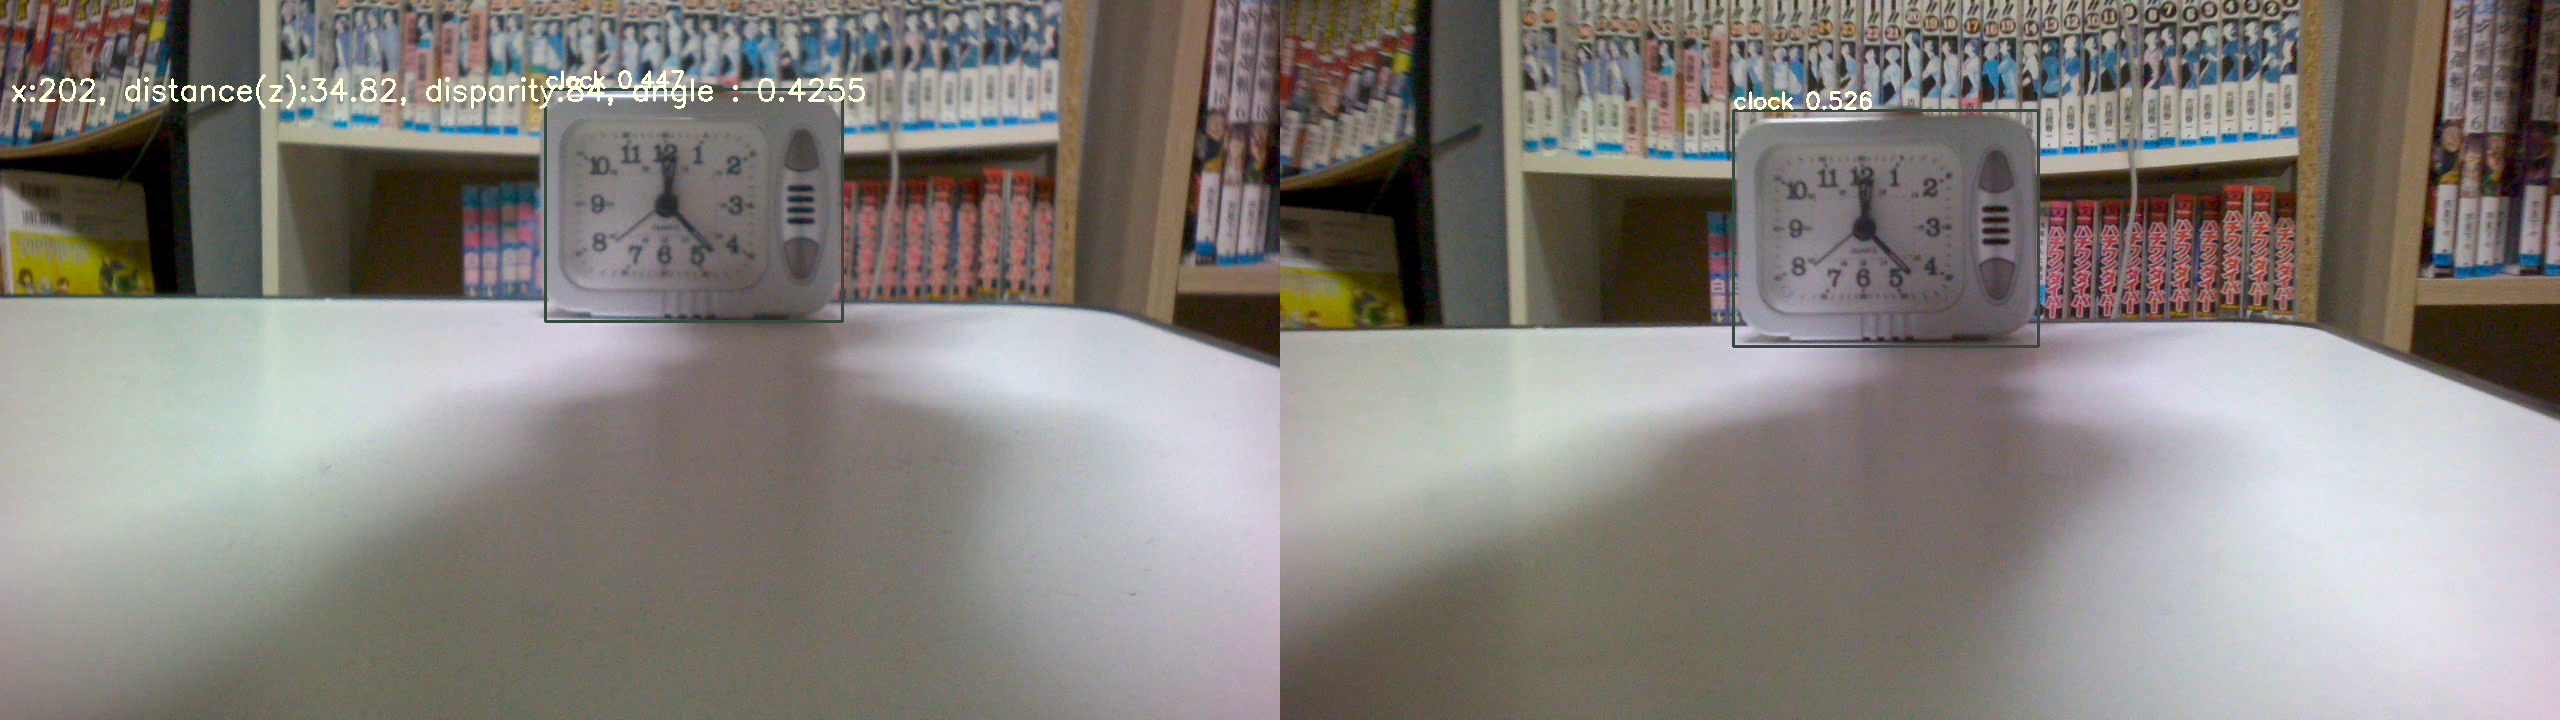
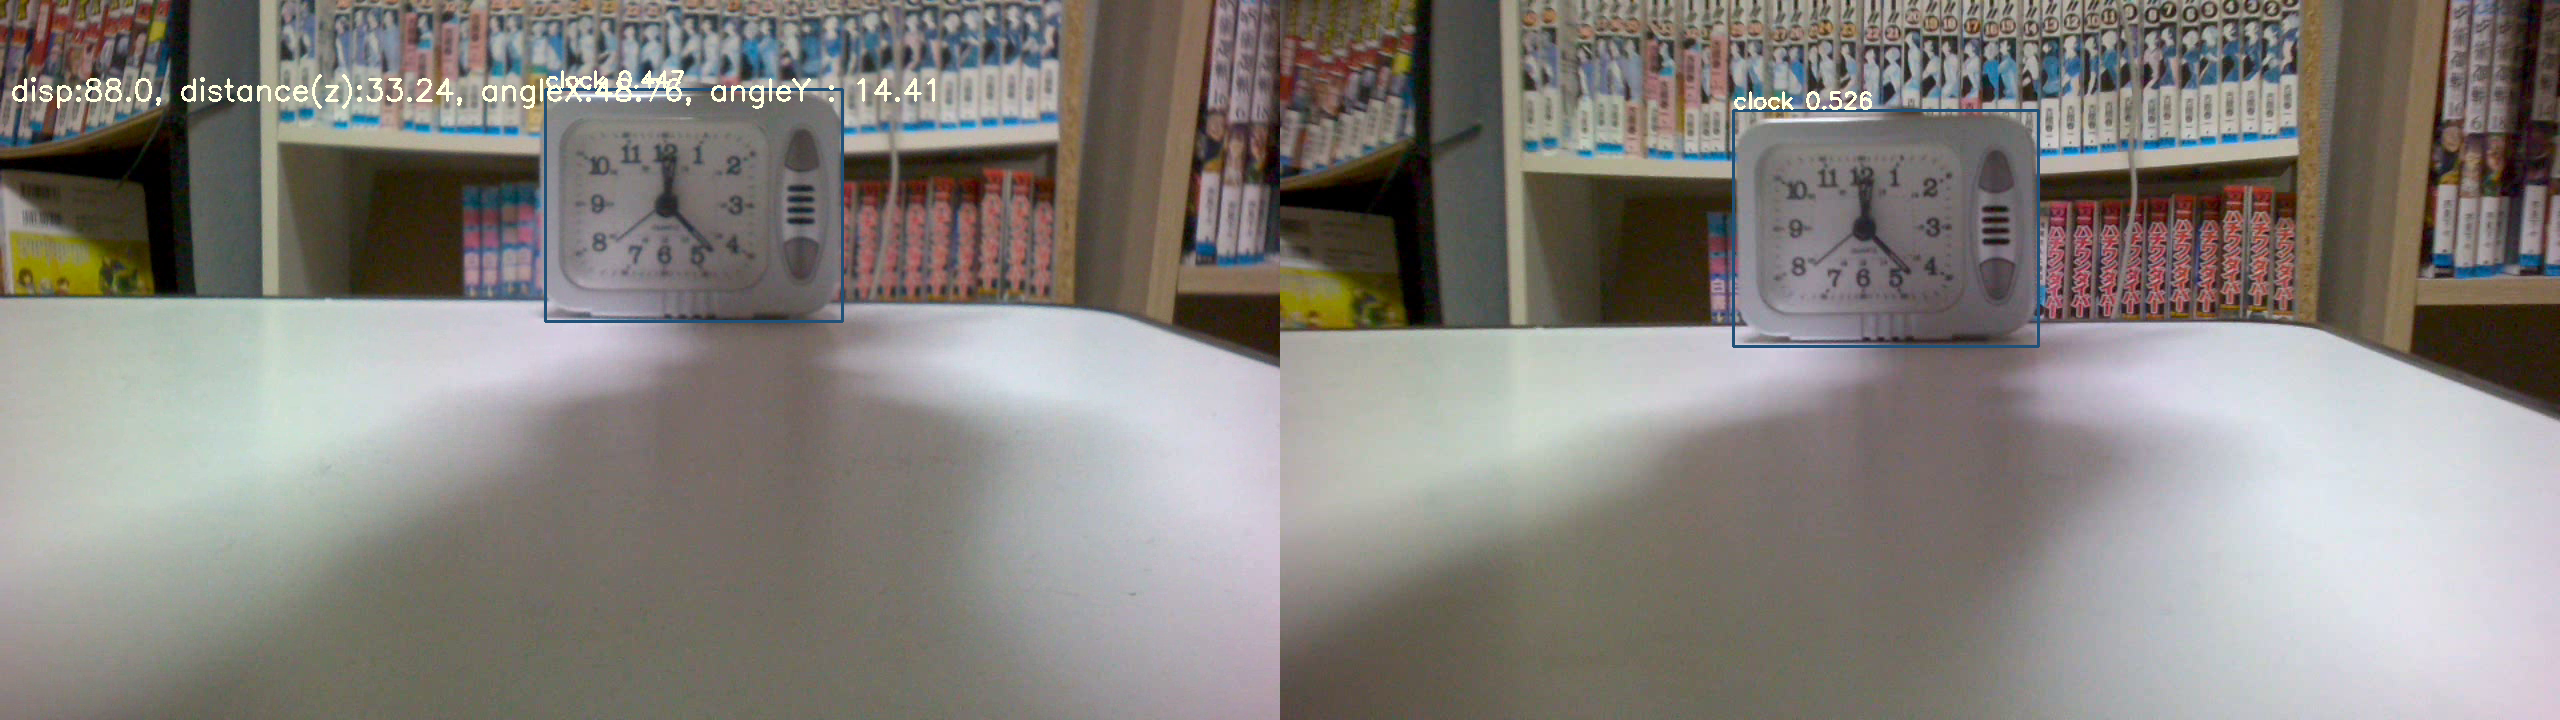
prototype update

Changed region(s): [[0.0, 0.0917, 0.375, 0.1528], [0.6875, 0.4583, 0.7812, 0.4889], [0.2188, 0.4278, 0.3125, 0.4583]]

diff --git a/qtWidgets/LeftWidget.py b/qtWidgets/LeftWidget.py
@@ -1,5 +1,4 @@
 import numpy as np
-
 from PySide6.QtWidgets import QWidget, QHBoxLayout, QVBoxLayout, QLabel, QSpacerItem, QSizePolicy
 from PySide6.QtCore import QTimer
 
@@ -12,16 +11,15 @@ class LeftWidget(QWidget):
         self.th = th
         self.setUI()
         self.UpDate()
-        
-    def setUI(self):
-    
-        # x0 params
-        self.x0_layout = QHBoxLayout()
-        self.x0_title = QLabel('X0')
-        self.x0 = QLabel('', self)
-        self.x0.setStyleSheet('font-family: Times New Roman; font-size: 15px; color: black; background-color: azure')
-        self.x0_layout.addWidget(self.x0_title)
-        self.x0_layout.addWidget(self.x0)
+       
+    def setLayouts(self):
+        # disparity params
+        self.disp_layout = QHBoxLayout()
+        self.disp_title = QLabel('Disparity')
+        self.disp = QLabel('', self)
+        self.disp.setStyleSheet('font-family: Times New Roman; font-size: 15px; color: black; background-color: azure')
+        self.disp_layout.addWidget(self.disp_title)
+        self.disp_layout.addWidget(self.disp)
         
         # distance params
         self.distance_layout = QHBoxLayout()
@@ -31,17 +29,30 @@ class LeftWidget(QWidget):
         self.distance_layout.addWidget(self.distance_title)
         self.distance_layout.addWidget(self.distance)
         
-        # angle params
-        self.angle_layout = QHBoxLayout()
-        self.angle_title = QLabel('Angle')
-        self.angle = QLabel('', self)
-        self.angle.setStyleSheet('font-family: Times New Roman; font-size: 15px; color: black; background-color: azure')
-        self.angle_layout.addWidget(self.angle_title)
-        self.angle_layout.addWidget(self.angle)
+        # angle X params
+        self.angleX_layout = QHBoxLayout()
+        self.angleX_title = QLabel('Angle X')
+        self.angleX = QLabel('', self)
+        self.angleX.setStyleSheet('font-family: Times New Roman; font-size: 15px; color: black; background-color: azure')
+        self.angleX_layout.addWidget(self.angleX_title)
+        self.angleX_layout.addWidget(self.angleX)
         
-        self.layout.addLayout(self.x0_layout)
+        # angle Y params
+        self.angleY_layout = QHBoxLayout()
+        self.angleY_title = QLabel('Angle X')
+        self.angleY = QLabel('', self)
+        self.angleY.setStyleSheet('font-family: Times New Roman; font-size: 15px; color: black; background-color: azure')
+        self.angleY_layout.addWidget(self.angleY_title)
+        self.angleY_layout.addWidget(self.angleY)
+        
+    def setUI(self):
+        # set each layouts
+        self.setLayouts()
+        
+        self.layout.addLayout(self.disp_layout)
         self.layout.addLayout(self.distance_layout)
-        self.layout.addLayout(self.angle_layout)
+        self.layout.addLayout(self.angleX_layout)
+        self.layout.addLayout(self.angleY_layout)
         # スペーシング
         spc = QSpacerItem(100, 100, QSizePolicy.Expanding, QSizePolicy.Expanding)
         self.layout.addSpacerItem(spc)
@@ -57,6 +68,7 @@ class LeftWidget(QWidget):
         self.timer.start(30)
         
     def plot_bar(self):
-        self.x0.setText(str(self.th.x0))
+        self.disp.setText(str(self.th.disparity))
         self.distance.setText(str(self.th.distance))
-        self.angle.setText(str(self.th.angle))
+        self.angleX.setText(str(self.th.angleX))
+        self.angleY.setText(str(self.th.angleY))

diff --git a/yolov7s/movie_inference.py b/yolov7s/movie_inference.py
@@ -14,7 +14,7 @@ def get_parser():
     parser.add_argument('--per_frames', type=int, default=5, help='num frames to predict at each thread for reducing device burden')
     parser.add_argument('--conf-thres', type=float, default=0.25, help='conf threshold for NMS or postprocess')
     parser.add_argument('--max_disparity', type=int, default=240, help='max disparity')
-    parser.add_argument('--min_disparity', type=int, default=15, help='min disparity')
+    parser.add_argument('--min_disparity', type=int, default=15, help='max disparity')
     parser.add_argument('--rvid_path', type=str, default='data/right.mp4', help='right video path')
     parser.add_argument('--lvid_path', type=str, default='data/left.mp4', help='left video path')
     opt = parser.parse_args()
@@ -30,8 +30,8 @@ def inference_(frame, session, new_shape, conf_thres):
     resized_image, ratio, dwdh = letterbox(frame, new_shape=new_shape, auto=False)
     input_tensor = preprocess(resized_image)
     outputs = onnx_inference(session, input_tensor)
-    pred_output, box_x = post_process(outputs, ori_images, ratio, dwdh, conf_thres)
-    return pred_output, box_x
+    pred_output, coordinate_x, coordinate_y = post_process(outputs, ori_images, ratio, dwdh, conf_thres)
+    return pred_output, coordinate_x, coordinate_y
     
 
 def video_inference(opt):
@@ -54,7 +54,7 @@ def video_inference(opt):
     Rstack = []
     Lstack = []
     cv2.namedWindow("Detected Objects", cv2.WINDOW_NORMAL)
-    #c = 1
+    c = 1
     while capR.isOpened() and capL.isOpened():
         try:
             retR, frame_right = capR.read()
@@ -68,21 +68,21 @@ def video_inference(opt):
             continue
         if len(Rstack)==per_frames and len(Lstack)==per_frames:
             # inference each frame
-            right_output, RboxW = inference_(Rstack[-1], session, new_shape, conf_thres)
-            left_output, LboxW = inference_(Lstack[-1], session, new_shape, conf_thres)
+            right_output, Rx, Ry = inference_(Rstack[-1], session, new_shape, conf_thres)
+            left_output, Lx, Ly = inference_(Lstack[-1], session, new_shape, conf_thres)
             frames = np.concatenate((right_output[0], left_output[0]), axis=1)
             Rstack=[]
             Lstack=[]
-            if RboxW >0 and LboxW > 0:
-                disparity = abs(RboxW-LboxW)
+            if Rx >0 and Lx > 0:
+                disparity = abs(Rx-Lx)
                 if disparity <= max_disparity and disparity > min_disparity:
                     h, w = frames.shape[:2]
-                    distance= prams_calcurator(disparity)
-                    texts = 'distance(z):{}, disparity:{}'.format(distance, disparity)
+                    distance, angleX, angleY = prams_calcurator(disparity, width=w, x=Rx, y=Ry)
+                    texts = 'disp:{}, distance(z):{}, angleX:{}, angleY : {}'.format(disparity, distance, angleX, angleY)
                     cv2.putText(frames, texts, (10, 100), cv2.FONT_HERSHEY_SIMPLEX, 1, [225, 255, 255],thickness=2)
             cv2.imshow("Detected Objects", frames)
-            #cv2.imwrite('results/frame_{}.png'.format(c), frames)
-            #c +=1
+            cv2.imwrite('results/frame_{}.png'.format(c), frames)
+            c +=1
         if cv2.waitKey(30) == 27:
             break
     capR.release()

diff --git a/qtWidgets/RightVideoTread.py b/qtWidgets/RightVideoTread.py
@@ -18,9 +18,10 @@ class Thread(QThread):
         self.capR = cv2.VideoCapture(opt.rvid_path)
         self.capL = cv2.VideoCapture(opt.lvid_path)
         self.pred_time = 0
+        self.disparity = 0
         self.distance = 0
-        self.x0 = 0
-        self.angle = 0
+        self.angleX = 0
+        self.angleY = 0
         self.vid_side = opt.vid_size
         self.conf_thres = opt.conf_thres
         self.per_frames = opt.per_frames
@@ -56,8 +57,8 @@ class Thread(QThread):
         resized_image, ratio, dwdh = letterbox(frame, new_shape=self.new_shape, auto=False)
         input_tensor = preprocess(resized_image)
         outputs = onnx_inference(self.session, input_tensor)
-        pred_output, box_x = post_process(outputs, ori_images, ratio, dwdh, self.conf_thres)
-        return pred_output[0], box_x
+        pred_output, coordinate_x, coordinate_y = post_process(outputs, ori_images, ratio, dwdh, self.conf_thres)
+        return pred_output[0], coordinate_x, coordinate_y
         
     def run(self):
         """Read frame from camera and repaint QLabel widget.
@@ -76,16 +77,16 @@ class Thread(QThread):
                 continue
             if len(self.Rstack)==self.per_frames and len(self.Lstack)==self.per_frames:
                 start = time.time()
-                frameR_, RboxW = self.qt_onnx_inference(self.Rstack[-1])
-                frameL_, LboxW = self.qt_onnx_inference(self.Lstack[-1])
+                frameR_, Rx, Ry = self.qt_onnx_inference(self.Rstack[-1])
+                frameL_, Lx, Ly = self.qt_onnx_inference(self.Lstack[-1])
                 frames = np.concatenate((frameR_, frameL_), axis=1)
                 #frames_ = cv2.resize(frames, dim)
-                if RboxW >0 and LboxW > 0:
-                    disparity = abs(RboxW-LboxW)
-                    if disparity <= self.max_disparity and disparity > self.min_disparity:
+                if Rx >0 and Lx > 0:
+                    self.disparity = abs(Rx-Lx)
+                    if self.disparity <= self.max_disparity and self.disparity > self.min_disparity:
                         h, w = frames.shape[:2]
-                        self.x0, self.distance, self.angle, deg = prams_calcurator(disparity, x_pos=RboxW, width=w)
-                        texts = 'x:{}, distance(z):{}, disparity:{}, angle : {}, deg:{}'.format(self.x0, self.distance, disparity, self.angle, deg)
+                        self.distance, self.angleX, self.angleY = prams_calcurator(self.disparity, width=w, x=Rx, y=Ry)
+                        texts = 'disp:{}, distance(z):{}, angleX:{}, angleY : {}'.format(self.disparity, self.distance, self.angleX, self.angleY)
                         cv2.putText(frames, texts, (10, 100), cv2.FONT_HERSHEY_SIMPLEX, 1, [225, 255, 255],thickness=2)
                 # Creating and scaling QImage
                 img = self.openCV2Qimage(frames)

diff --git a/yolov7s/common.py b/yolov7s/common.py
@@ -61,7 +61,8 @@ def onnx_inference(session, input_tensor):
     return outputs
 
 def post_process(outputs, ori_images, ratio, dwdh, conf_thres):
-    box_x = 0
+    coordinateX = 0
+    coordinateY = 0
     for i, (batch_id, x0, y0, x1, y1, cls_id, score) in enumerate(outputs):
         image = ori_images[int(batch_id)]
         box = np.array([x0,y0,x1,y1])
@@ -79,8 +80,10 @@ def post_process(outputs, ori_images, ratio, dwdh, conf_thres):
         name += ' '+str(score)
         cv2.rectangle(image, box[:2], box[2:], color, 2)
         cv2.putText(image, name, (box[0], box[1] - 2),cv2.FONT_HERSHEY_SIMPLEX,0.75,[225, 255, 255],thickness=2)
-        box_x += box[2:][0]
-    return ori_images, box_x
+        coordinateX += (box[2:][0]+box[:2][0])/2 # w+x/2
+        coordinateY += (box[2:][1]+box[:2][1])/2 # h+y/2
+    return ori_images, coordinateX, coordinateY
+
 
 def img_post_process(outputs, ori_images, ratio, dwdh, conf_thres):
     for i, (batch_id, x0, y0, x1, y1, cls_id, score) in enumerate(outputs):
@@ -100,4 +103,4 @@ def img_post_process(outputs, ori_images, ratio, dwdh, conf_thres):
         cv2.putText(image, name, (box[0], box[1] - 2),cv2.FONT_HERSHEY_SIMPLEX,0.75,[225, 255, 255],thickness=2)
     return ori_images
 
-   
+

diff --git a/yolov7s/dist_calcurator.py b/yolov7s/dist_calcurator.py
@@ -2,21 +2,31 @@ import os
 import numpy as np
 from enum import Enum
 
-class Formula(Enum):
+
+class DistFormula(Enum):
     T = 2.6
     F = 0.315
     IMG_ELEMENT = 0.00028
     K = 2925
     
-def disranse_formula(disparity):
+class AngleFormula(Enum):
+    SerboMaxAngle = 180
+
+def angle_formula(x, y, w):
+    angleX = x / (w/AngleFormula.SerboMaxAngle.value)
+    angleY = y / (w/AngleFormula.SerboMaxAngle.value)
+    return angleX, angleY
+    
+def distance_formula(disparity):
     T=2.6
     f = 0.315
     img_element = 0.0001*2.8
     K = int(T*f/img_element)
     return K/disparity
     
-def prams_calcurator(disparity):
-    distance = Formula.K.value / disparity   #  disranse_formula(disparity)
-    return np.round(distance, decimals=2)
+def prams_calcurator(disparity, width, x, y):
+    distance = DistFormula.K.value / disparity   #  disranse_formula(disparity)
+    angleX, angleY = angle_formula(x, y, width)
+    return np.round(distance, decimals=2), np.round(angleX, decimals=2), np.round(angleY, decimals=2)
  
 

diff --git a/main.py b/main.py
@@ -18,7 +18,7 @@ def get_parser():
     parser.add_argument('--per_frames', type=int, default=5, help='num frames to predict at each thread for reducing device burden')
     parser.add_argument('--conf-thres', type=float, default=0.25, help='conf threshold for NMS or postprocess')
     parser.add_argument('--max_disparity', type=int, default=240, help='max disparity')
-    parser.add_argument('--min_disparity', type=int, default=15, help='min disparity')
+    parser.add_argument('--min_disparity', type=int, default=15, help='max disparity')
     parser.add_argument('--rvid_path', type=str, default='data/right.mp4', help='right video path')
     parser.add_argument('--lvid_path', type=str, default='data/left.mp4', help='left video path')
     parser.add_argument('--vid_size', type=int, default=250, help='Display video size')
